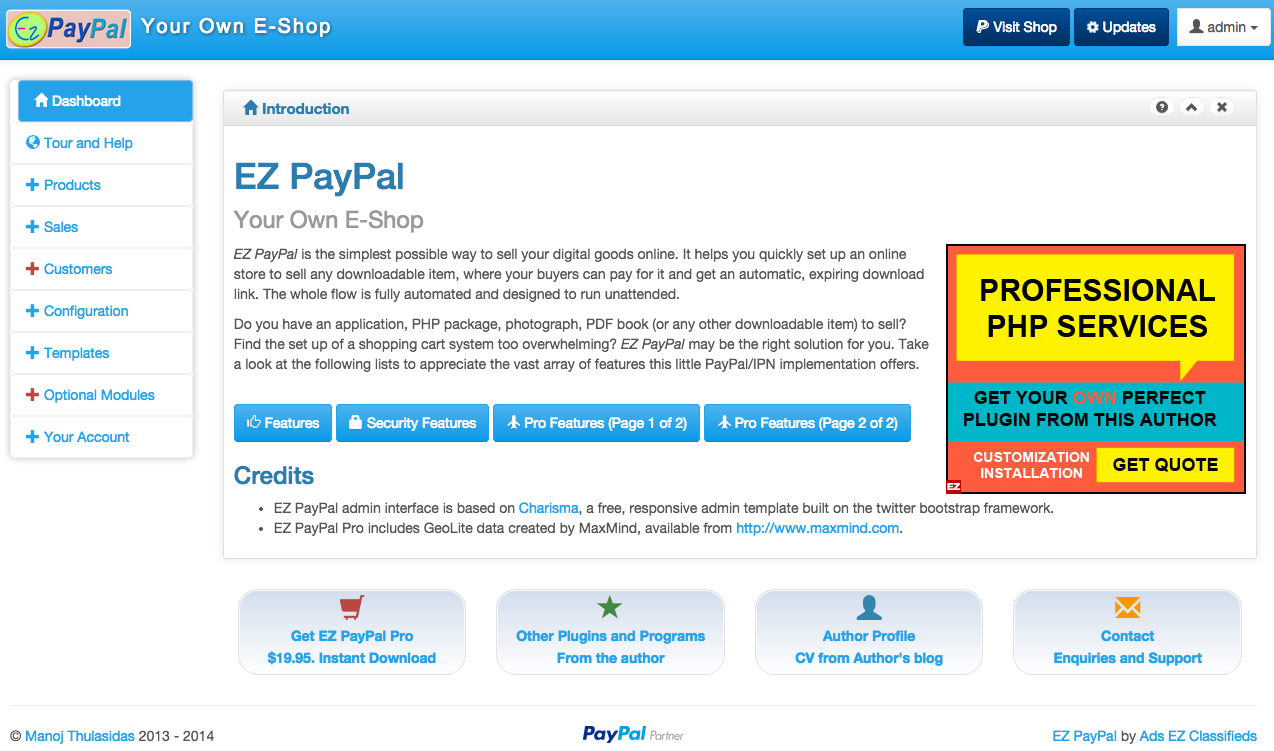
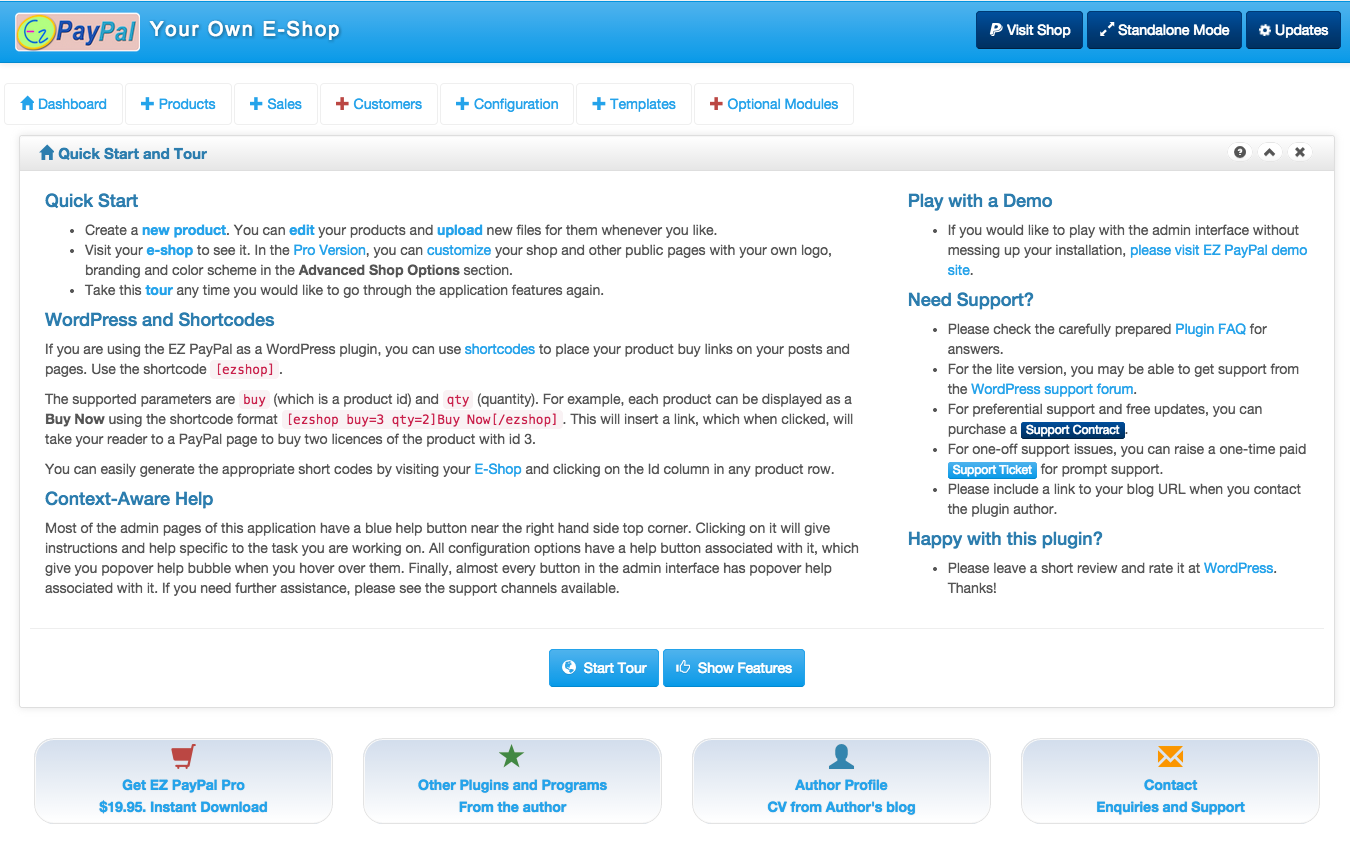
Committing V6.54: Improvements in the admin dashboard. [April 14, 2015]
git-svn-id: https://plugins.svn.wordpress.org/easy-paypal-lte/trunk@1134029 b8457f37-d9ea-0310-8a92-e5e31aec5664

diff --git a/admin/js/charisma.js b/admin/js/charisma.js
@@ -255,6 +255,15 @@ function docReady() {
     return ezPopUp(url, title, w, h);
   });
 
+  $('.popup-tall, .popup-long').click(function (e) {
+    e.preventDefault();
+    var url = $(this).attr('href');
+    var title = "Support Ticket";
+    var w = 1000;
+    var h = 1024;
+    return ezPopUp(url, title, w, h);
+  });
+
   if (inIframe()) {
     $("#standAloneMode").show();
     $('body').find('a').not("#standAloneMode, .popup").each(function () {

diff --git a/admin/tour.php b/admin/tour.php
@@ -1,53 +1,81 @@
 <?php
-require('header.php');
-$cfgDir = dirname(dirname(__FILE__));
-?>
-<div>
-  <ul class="breadcrumb">
-    <li>
-      <a href="#">Home</a>
-    </li>
-    <li>
-      <a href="#">Tour</a>
-    </li>
-  </ul>
-</div>
-<h3>Take a Tour of EZ PayPal Features</h3>
-<?php
-openBox("Tour and Help", "globe", 12);
-  $shopPage = EZ::ezppURL() . "shop.php";
+$shopPage = EZ::ezppURL() . "shop.php";
 if (EZ::$isInWP) {
   $shopPage .= "?wp";
 }
 ?>
-<h4>Quick Start</h4>
-<ul>
-  <li>Create a <strong><a href='products-edit.php'>new product</a></strong>. You can <a href="products.php"><strong>edit</strong></a> your products and <a href="products-batch.php"><strong>upload</strong></a> new files for them whenever you like.</li>
-  <li>Visit your <strong><a href="<?php echo $shopPage; ?>">e-shop</a></strong> to see it. In the <a href="#" class="goPro">Pro Version</a>, you can <a href="advanced.php">customize</a> your shop and other public pages with your own logo, branding and color scheme in the <strong>Advanced Shop Options</strong> section.</li>
-  <li>Take this <strong><a class="restart" href="#">tour</a></strong> any time you would like to go through the application features again.</li>
-</ul>
-<h4>WordPress and Shortcodes</h4>
-<p>If you are using the EZ PayPal as a WordPress plugin, you can use <a href='http://codex.wordpress.org/Shortcode' target='_blank'>shortcodes</a> to place your product buy links on your posts and pages. Use the shortcode <code>[ezshop]</code>.</p>
-<p>The supported parameters are <code>buy</code> (which is a product id) and <code>qty</code> (quantity). For example, each product can be displayed as a <strong>Buy Now</strong> using the shortcode format <code>[ezshop buy=3 qty=2]Buy Now[/ezshop]</code>. This will insert a link, which when clicked, will take your reader to a PayPal page to buy two licences of the product with id 3.</p>
-<p>You can easily generate the appropriate short codes by visiting your <a href="../shop.php">E-Shop</a> and clicking on the Id column in any product row.</p>
+<div class="col-lg-8 col-sm-12">
+  <h4>Quick Start</h4>
+  <ul>
+    <li>Create a <strong><a href='products-edit.php'>new product</a></strong>. You can <a href="products.php"><strong>edit</strong></a> your products and <a href="products-batch.php"><strong>upload</strong></a> new files for them whenever you like.</li>
+    <li>Visit your <strong><a href="<?php echo $shopPage; ?>">e-shop</a></strong> to see it. In the <a href="#" class="goPro">Pro Version</a>, you can <a href="advanced.php">customize</a> your shop and other public pages with your own logo, branding and color scheme in the <strong>Advanced Shop Options</strong> section.</li>
+    <li>Take this <strong><a class="restart" href="#">tour</a></strong> any time you would like to go through the application features again.</li>
+  </ul>
+  <h4>WordPress and Shortcodes</h4>
+  <p>If you are using the EZ PayPal as a WordPress plugin, you can use <a href='http://codex.wordpress.org/Shortcode' target='_blank'>shortcodes</a> to place your product buy links on your posts and pages. Use the shortcode <code>[ezshop]</code>.</p>
+  <p>The supported parameters are <code>buy</code> (which is a product id) and <code>qty</code> (quantity). For example, each product can be displayed as a <strong>Buy Now</strong> using the shortcode format <code>[ezshop buy=3 qty=2]Buy Now[/ezshop]</code>. This will insert a link, which when clicked, will take your reader to a PayPal page to buy two licences of the product with id 3.</p>
+  <p>You can easily generate the appropriate short codes by visiting your <a href="../shop.php">E-Shop</a> and clicking on the Id column in any product row.</p>
 
-<h4>Context-Aware Help</h4>
-<p>Most of the admin pages of this application have a blue help button near the right hand side top corner. Clicking on it will give instructions and help specific to the task you are working on.</p>
+  <h4>Context-Aware Help</h4>
+  <p>Most of the admin pages of this application have a blue help button near the right hand side top corner. Clicking on it will give instructions and help specific to the task you are working on. All configuration options have a help button associated with it, which give you popover help bubble when you hover over them. Finally, almost every button in the admin interface has popover help associated with it. If you need further assistance, please see the support channels available.</p>
+</div>
+<div class="col-lg-4 col-sm-12">
+  <h4>Play with a Demo</h4>
+  <ul>
+    <li>If you would like to play with the admin interface without messing up your installation, <a href="http://demo.thulasidas.com/ezpaypal" title='Visit the demo site to play with the admin interface' data-toggle='tooltip' target="_blank">please visit EZ PayPal demo site</a>.</li>
+  </ul>
+  <h4>Need Support?</h4>
+  <ul>
+    <li>Please check the carefully prepared <a href="http://www.thulasidas.com/plugins/ezpaypal#faq" class="popup-long" title='Your question or issue may be already answered or resolved in the FAQ' data-toggle='tooltip'> Plugin FAQ</a> for answers.</li>
+    <li>For the lite version, you may be able to get support from the <a href='https://wordpress.org/support/plugin/easy-paypal-lte/' class='popup-long' title='WordPress forums have community support for this plugin' data-toggle='tooltip'>WordPress support forum</a>.</li>
+    <li>For preferential support and free updates, you can purchase a <a href='http://buy.thulasidas.com/support' class='popup btn-xs btn-info' title='Support contract costs only $4.95 a month, and you can cancel anytime. Free updates upon request, and support for all the products from the author.' data-toggle='tooltip'>Support Contract</a>.</li>
+    <li>For one-off support issues, you can raise a one-time paid <a href='http://buy.thulasidas.com/ezsupport' class='popup btn-xs btn-primary' title='Support ticket costs $0.95 and lasts for 72 hours' data-toggle='tooltip'>Support Ticket</a> for prompt support.</li>
+    <li>Please include a link to your blog URL when you contact the plugin author.</li>
+  </ul>
+  <h4>Happy with this plugin?</h4>
+  <ul>
+    <li>Please leave a short review and rate it at <a href=https://wordpress.org/plugins/easy-paypal-lte/" class="popup-long" title='Please help the author and other users by leaving a short review for this plugin and by rating it' data-toggle='tooltip'>WordPress</a>. Thanks!</li>
+  </ul>
+</div>
+<div class="clearfix"></div>
 <hr />
-<p class="center-text"> <a class="btn btn-success center-text restart" href="#" data-toggle='tooltip' title='Start or restart the tour any time' id='restart'><i class="glyphicon glyphicon-refresh icon-white"></i>&nbsp; Start the Tour</a></p>
+<p class="center-text">
+  <a class="btn btn-primary center-text restart" href="#" data-toggle='tooltip' title='Start or restart the tour any time' id='restart'><i class="glyphicon glyphicon-globe icon-white"></i>&nbsp; Start Tour</a>
+  <a class="btn btn-primary center-text showFeatures" href="#" data-toggle='tooltip' title='Show the features of this plugin and its Pro version'><i class="glyphicon glyphicon-thumbs-up icon-white"></i>&nbsp; Show Features</a>
+</p>
 <?php
-closeBox();
+if (isset($_REQUEST['inframe'])) {
+  ?>
+  <style type="text/css">
+    .tour-step-background {
+      background: transparent;
+      border: 2px solid blue;
+    }
+    .tour-backdrop {
+      opacity:0.2;
+    }
+  </style>
+  <?php
+}
 ?>
 <script>
   $(document).ready(function () {
     if (!$('.tour').length && typeof (tour) === 'undefined') {
-      var tour = new Tour({backdrop: true, backdropPadding: 20,
+      var tour = new Tour({backdrop: true, //backdropPadding: 20,
         onShow: function (t) {
           var current = t._current;
           var toShow = t._steps[current].element;
-          $(toShow).parent('ul').slideDown();
-          $(toShow).parent('ul').parent().siblings('.accordion').find('ul').slideUp();
-        }});
+          var dad = $(toShow).parent('ul');
+          var gdad = dad.parent();
+          dad.slideDown();
+          if (dad.hasClass('accordion')) {
+            gdad.siblings('.accordion').find('ul').slideUp();
+          }
+          else if (dad.hasClass('dropdown-menu')) {
+            gdad.siblings('.dropdown').find('ul').hide();
+          }
+        }
+      });
       tour.addStep({
         element: "#dashboard",
         placement: "right",
@@ -282,10 +310,19 @@ closeBox();
         content: "<p>You now know everything about the EZ PayPal interface. Congratulations!</p>"
       });
     }
-    $(".restart").click(function () {
+    $(".restart").click(function (e) {
+      e.preventDefault();
       tour.restart();
+    });
+    $(".showFeatures").click(function (e) {
+      e.preventDefault();
+      $("#features").toggle();
+      if ($("#features").is(":visible")) {
+        $(this).html('<i class="glyphicon glyphicon-thumbs-up icon-white"></i>&nbsp; Hide Features</a>');
+      }
+      else {
+        $(this).html('<i class="glyphicon glyphicon-thumbs-up icon-white"></i>&nbsp; Show Features</a>');
+      }
     });
   });
 </script>
-<?php
-require('footer.php');

diff --git a/admin/promo.php b/admin/promo.php
@@ -1,27 +1,27 @@
 <div class="clearfix">&nbsp;</div>
-<div class="col-md-3 col-sm-3 col-xs-6 goPro">
+<div class="col-md-3 col-sm-6 goPro">
   <a data-toggle="tooltip" title="Get the Pro version for only $19.95. Tons of extra features. Instant download." class="well top-block goPro" href="http://buy.thulasidas.com/ezpaypal">
     <i class="glyphicon glyphicon-shopping-cart red"></i>
     <div>Get EZ PayPal Pro</div>
     <div>$19.95. Instant Download</div>
   </a>
 </div>
-<div class="col-md-3 col-sm-3 col-xs-6">
-  <a data-toggle="tooltip" title="See other premium WordPress plugins and PHP programs by the same author." class="well top-block" href="http://www.thulasidas.com/render" target="_blank">
+<div class="col-md-3 col-sm-6">
+  <a data-toggle="tooltip" title="See other premium WordPress plugins and PHP programs by the same author." class="well top-block popup-long" href="http://www.thulasidas.com/render" target="_blank">
     <i class="glyphicon glyphicon-star green"></i>
     <div>Other Plugins and Programs</div>
     <div>From the author</div>
   </a>
 </div>
-<div class="col-md-3 col-sm-3 col-xs-6">
-  <a data-toggle="tooltip" title="Check out the author credentials in the form of a CV." class="well top-block" href="http://www.thulasidas.com/col/Manoj-CV.pdf" target="_blank">
+<div class="col-md-3 col-sm-6">
+  <a data-toggle="tooltip" title="Check out the author credentials in the form of a CV." class="well top-block popup-long" href="http://www.thulasidas.com/col/Manoj-CV.pdf" target="_blank">
     <i class="glyphicon glyphicon-user blue"></i>
     <div>Author Profile</div>
     <div>CV from Author's blog</div>
   </a>
 </div>
-<div class="col-md-3 col-sm-3 col-xs-6">
-  <a data-toggle="tooltip" title="If you need customized PHP development for your site, or have some other questions, contact the author." class="well top-block" href="http://www.thulasidas.com/professional-php-services/" target="_blank">
+<div class="col-md-3 col-sm-6">
+  <a data-toggle="tooltip" title="If you need customized PHP development for your site, or have some other questions, contact the author." class="well top-block popup-long" href="http://www.thulasidas.com/professional-php-services/" target="_blank">
     <i class="glyphicon glyphicon-envelope yellow"></i>
     <div>Contact</div>
     <div>Enquiries and Support</div>

diff --git a/EZ.php b/EZ.php
@@ -961,7 +961,7 @@ if (!class_exists("EZ")) {
 
     static function showService() {
       $select = rand(0, 4);
-      echo "<div class='pull-right' style='margin-left:10px;'><a href='http://www.thulasidas.com/professional-php-services/' target='_blank' title='Professional Services' data-content='The author of this plugin may be able to help you with your WordPress or plugin customization needs and other PHP related development. Find a plugin that almost, but not quite, does what you are looking for? Need any other professional PHP/jQuery dev services? Click here!' data-toggle='popover' data-trigger='hover' data-placement='left'><img src='img/svcs/300x250-0$select.jpg' border='0' alt='Professional Services from the Plugin Author' /></a></div>";
+      echo "<div class='pull-right' style='margin-left:10px;'><a href='http://www.thulasidas.com/professional-php-services/' target='_blank' class='popup-long' title='Professional Services' data-content='The author of this plugin may be able to help you with your WordPress or plugin customization needs and other PHP related development. Find a plugin that almost, but not quite, does what you are looking for? Need any other professional PHP/jQuery dev services? Click here!' data-toggle='popover' data-trigger='hover' data-placement='left'><img src='img/svcs/300x250-0$select.jpg' border='0' alt='Professional Services from the Plugin Author' /></a></div>";
     }
 
     static function getSaleHistory($email) {

diff --git a/admin/intro.php b/admin/intro.php
@@ -21,9 +21,9 @@ $features2 = "<p>Since the Pro version has more features than could be listed on
 
 </ol>";
 ?>
-<h1>EZ PayPal<br>
+<h2>EZ PayPal<br>
   <small>Your Own E-Shop</small>
-</h1>
+</h2>
 <?php
 if (empty($no_visible_elements)) {
   EZ::showService();
@@ -82,11 +82,3 @@ if (empty($no_visible_elements)) {
     </ol> <a href='#' class='btn-help pull-right' data-content='<?php echo $features2; ?>'>Pro Features (Page 2 of 2)</a>"><i class='glyphicon glyphicon-plane'></i> Pro Features (Page 1 of 2)</h2>
 
 <h2 class="btn btn-primary btn-help" data-content="<?php echo $features2; ?>"><i class='glyphicon glyphicon-plane'></i> Pro Features (Page 2 of 2)</h2>
-
-<h3>Credits</h3>
-<ul>
-  <li>EZ PayPal admin interface is based on <a href="http://usman.it/free-responsive-admin-template/">Charisma</a>, a free, responsive admin template built on the twitter bootstrap framework.
-  </li>
-  <li>EZ PayPal Pro includes GeoLite data created by MaxMind, available from <a href="http://www.maxmind.com">http://www.maxmind.com</a>.
-  </li>
-</ul>

diff --git a/admin/header.php b/admin/header.php
@@ -226,7 +226,6 @@ function getHeader() {
                   <ul class="nav nav-pills nav-stacked main-menu">
                     <li id="dashboard"><a href="index.php"><i class="glyphicon glyphicon-home"></i><span> Dashboard</span></a>
                     </li>
-                    <li id='tour'><a href="tour.php"><i class="glyphicon glyphicon-globe"></i><span> Tour and Help</span></a></li>
                     <?php
                     if (!$isPro) {
                       ?>

diff --git a/easy-paypal.php b/easy-paypal.php
@@ -4,7 +4,7 @@
   Plugin Name: EZ PayPal
   Plugin URI: http://www.thulasidas.com/plugins/ezpaypal
   Description: Easiest way to start selling your digital goods online. Go to <a href="options-general.php?page=wp-ezpaypal.php">Settings &rarr; EZ PayPal Lite</a> to set it up, or use the "Settings" link on the right.
-  Version: 6.53
+  Version: 6.54
   Author: Manoj Thulasidas
   Author URI: http://www.thulasidas.com
  */

diff --git a/admin/index.php b/admin/index.php
@@ -11,8 +11,17 @@
 </div>
 
 <?php
-openBox("Introduction", "home",12);
-include('intro.php');
+openBox("Quick Start and Tour", "home", 12);
+require 'tour.php';
 closeBox();
+?>
+<div id="features" style="display: none">
+  <?php
+  openBox("Features and Benefits", "thumbs-up", 12);
+  include('intro.php');
+  closeBox();
+  ?>
+</div>
+<?php
 include('promo.php');
 require('footer.php');

diff --git a/wp-ezpaypal.php b/wp-ezpaypal.php
@@ -160,7 +160,7 @@ function calcHeight() {
         </script>
         <?php
       }
-      $src = plugins_url("admin/index.php", __FILE__);
+      $src = plugins_url("admin/index.php?inframe", __FILE__);
       ?>
       <script>
         function calcHeight() {
